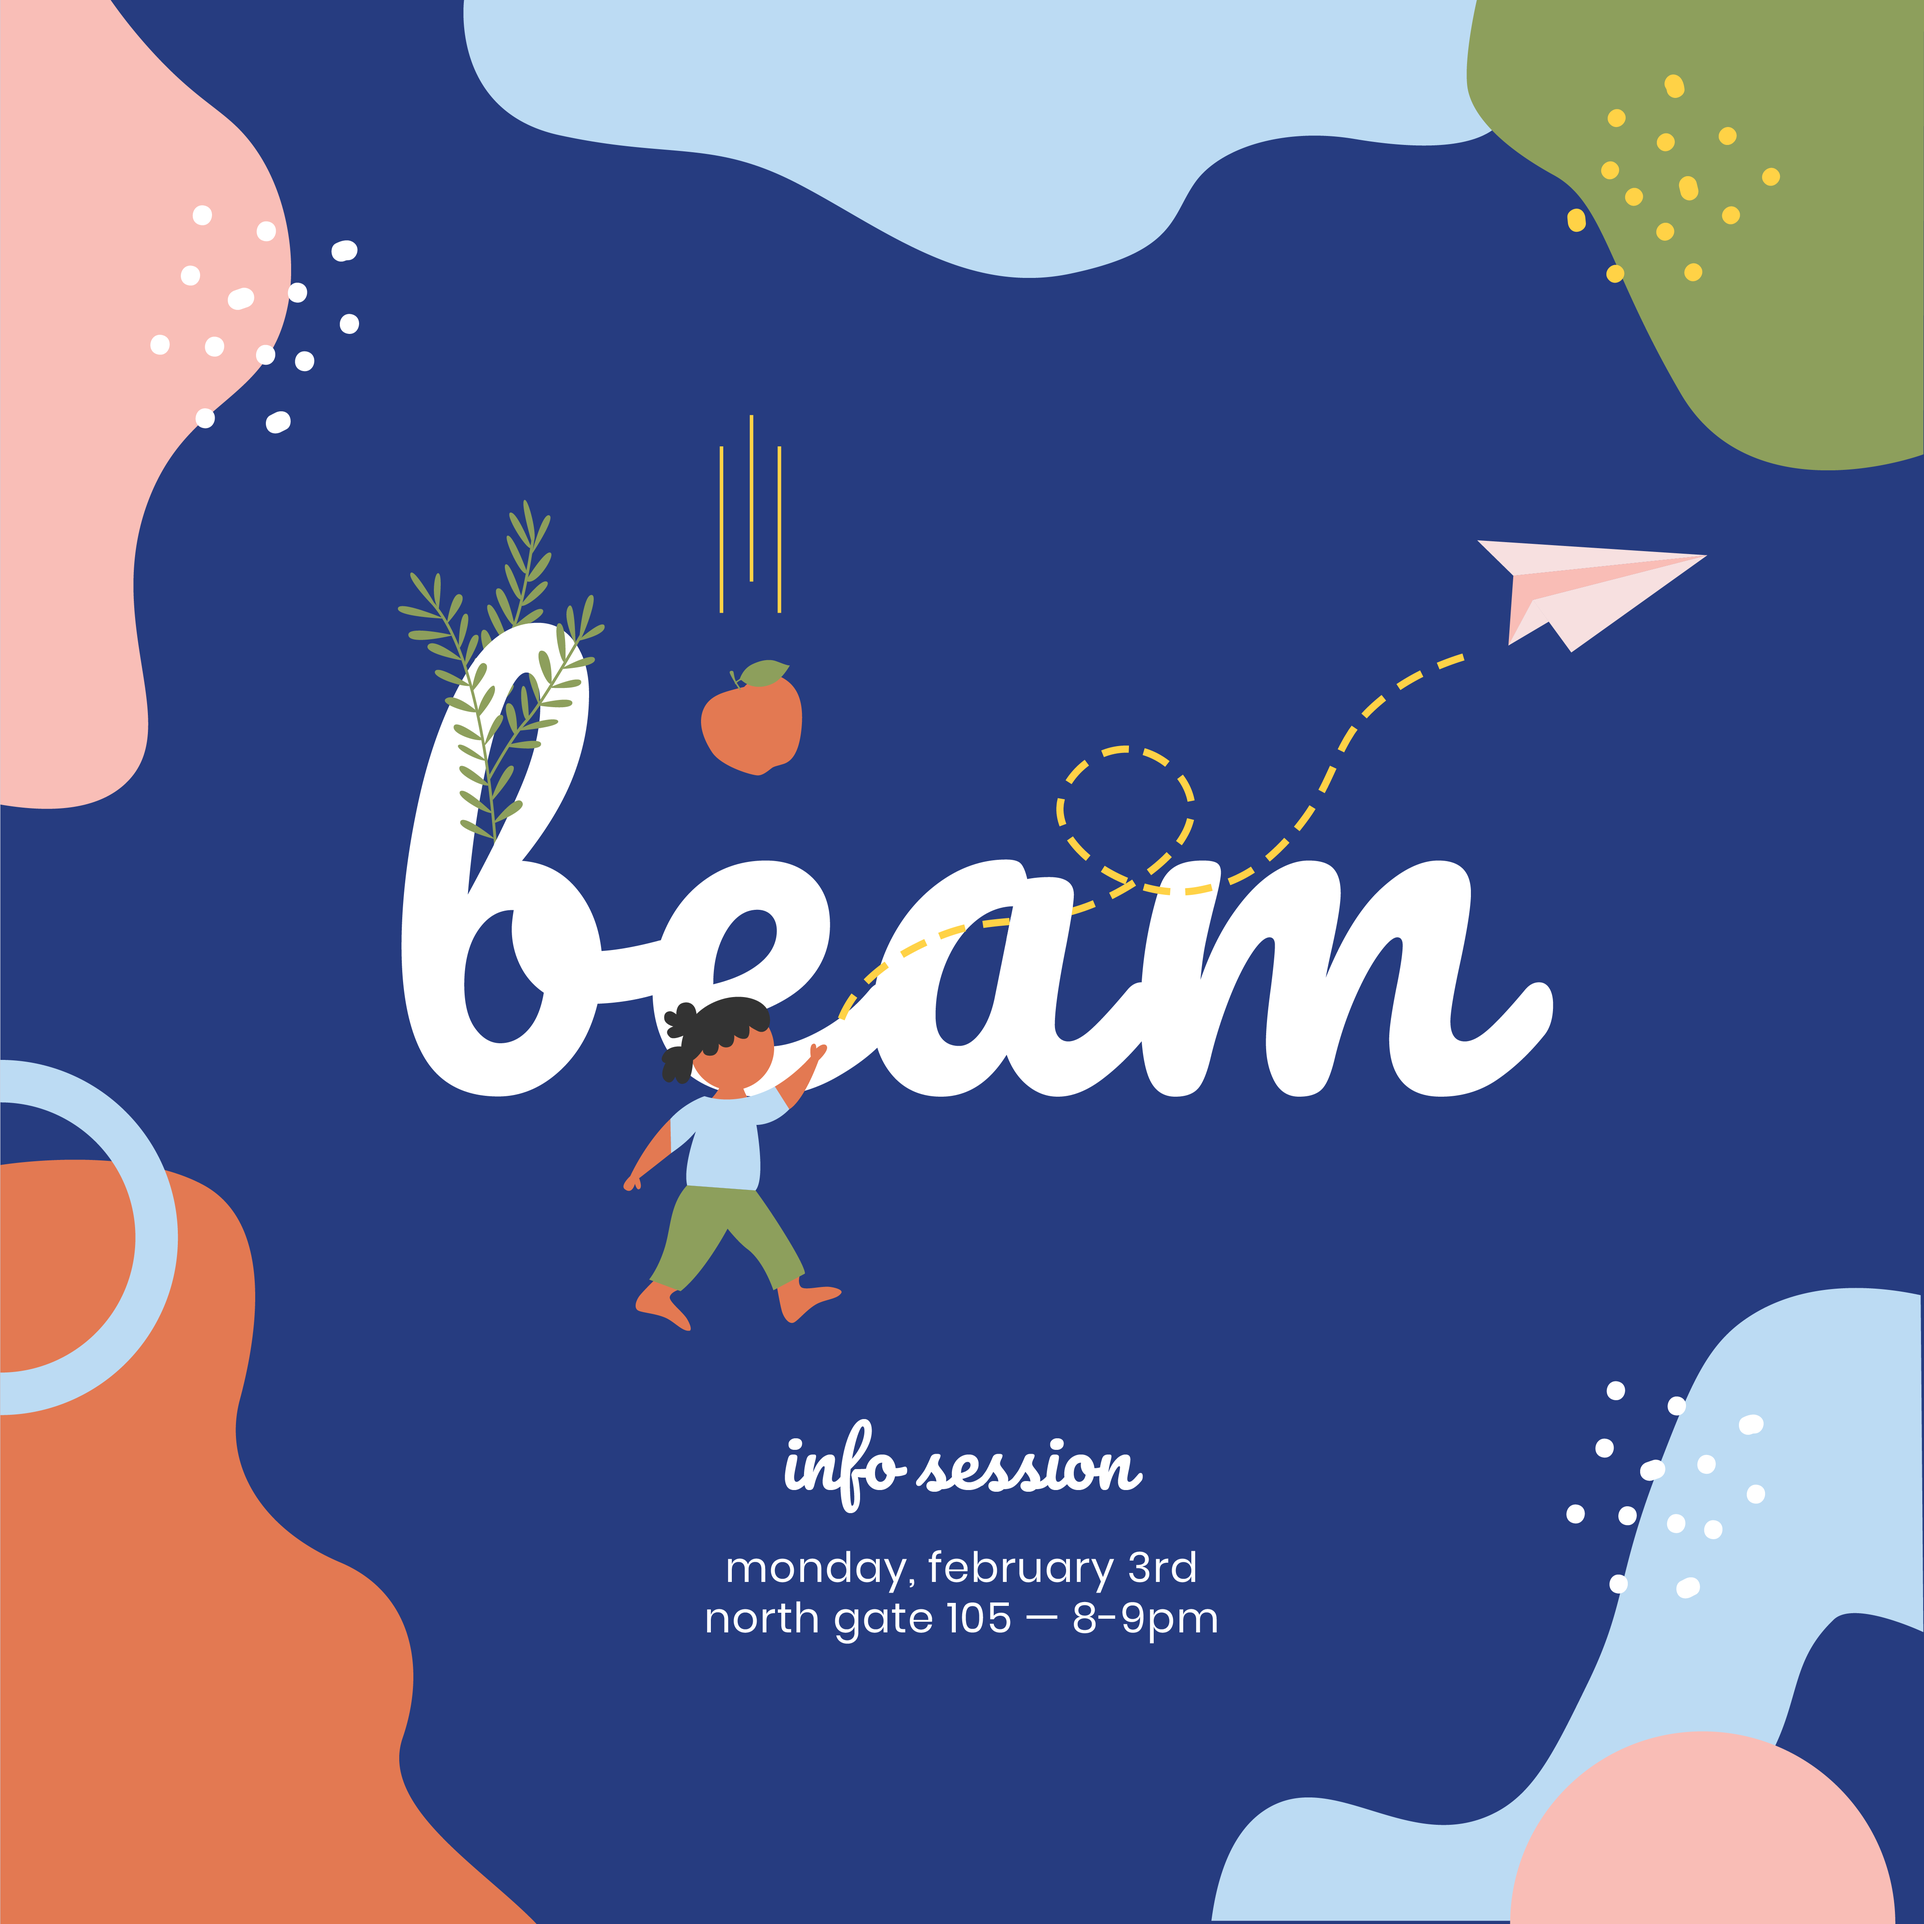
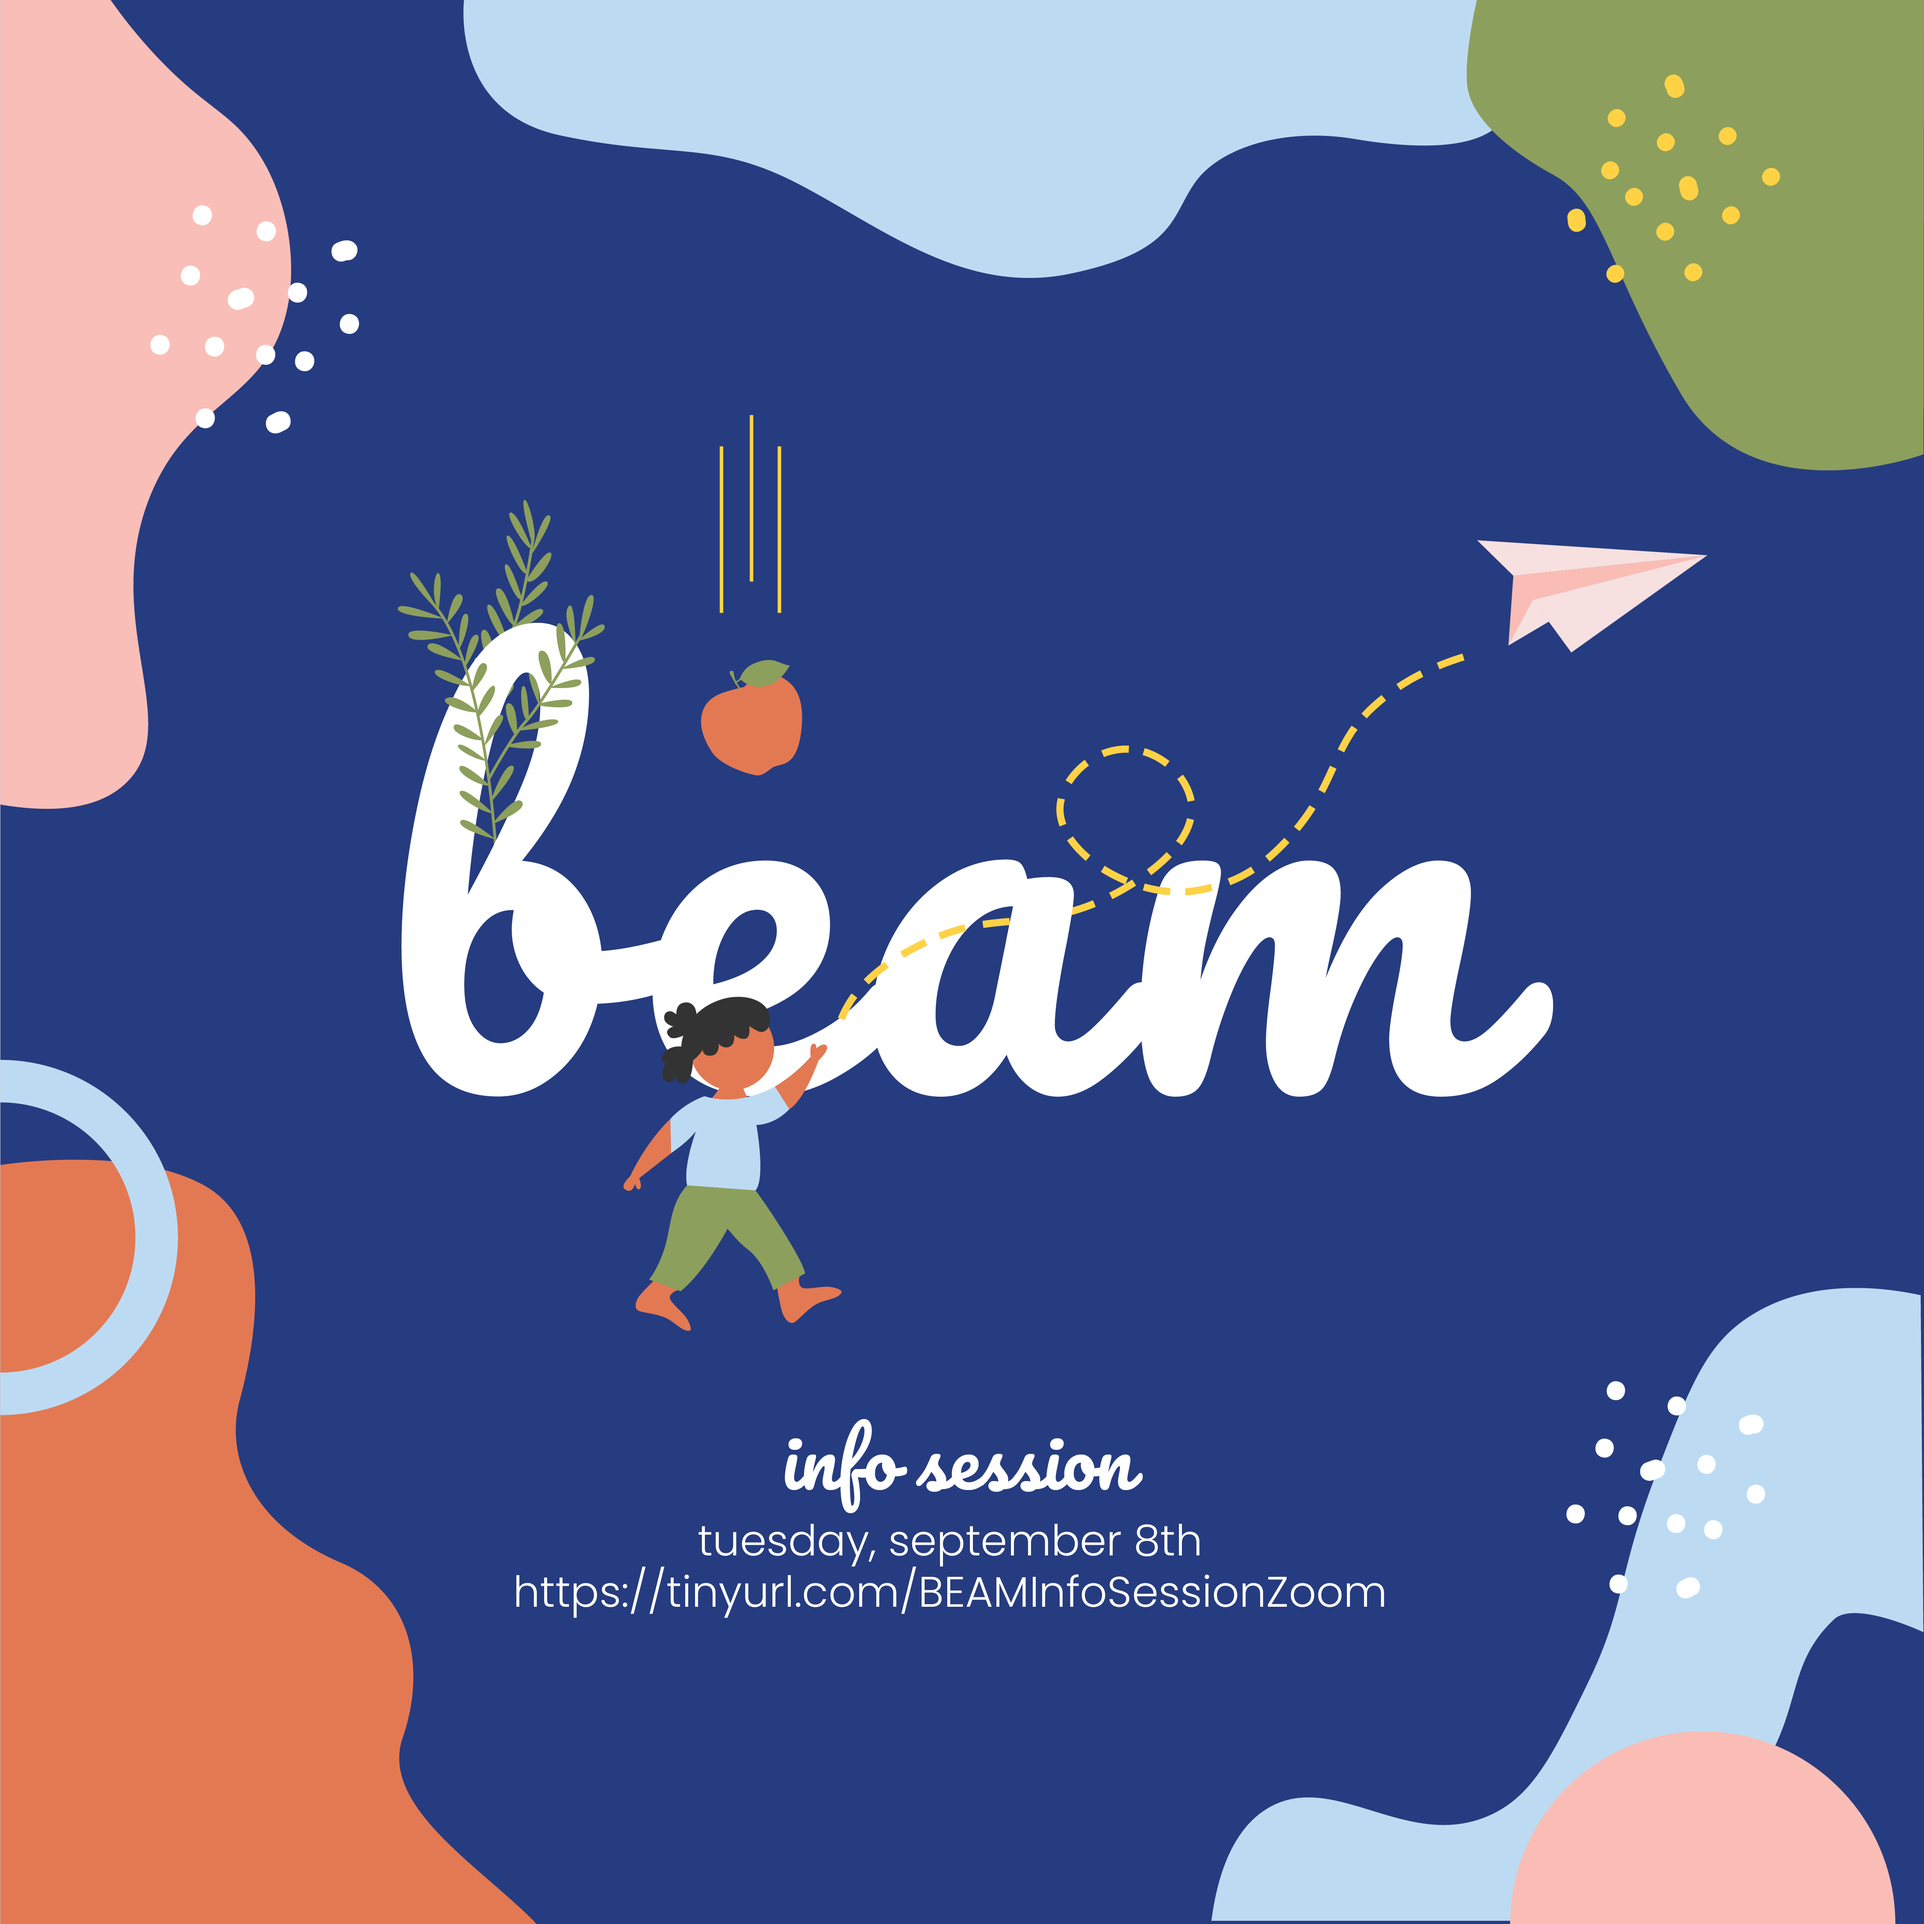
adding infosession image + some info on the join page

Changed region(s): [[0.2799, 0.7778, 0.7154, 0.8711]]

diff --git a/join.html b/join.html
@@ -18,9 +18,9 @@ description:
     <!-- <p><strong>Spring 2020 applications are now closed</strong> but feel free to add 
       your email below or follow us on <a target=_blank
         href="https://www.facebook.com/beam.teach/">Facebook</a> to receive information about our Fall 2020 infosession/application.</p> -->
-        <p>For interested <strong>Fall 2020 mentors</strong>, attend our virtual info-session on <strong>September 8th</strong> for application information! 
+        <p>For interested <strong>Fall 2020 mentors</strong>, stop by during Calapalooza on <strong> September 2nd from 4 PM - 6 PM PST</strong>, as well as our virtual info-session on <strong>September 8th from 8 PM - 9 PM PST</strong> for application information! 
           More details are available on our <a target=_blank
-            href="https://www.facebook.com/beam.teach/">Facebook</a> page. Follow us or add your email below to stay updated!</p>
+            href="https://www.facebook.com/beam.teach/events/">Facebook</a> page. Follow us or add your email below to stay updated!</p>
 
     <form action="http://formspree.io/beam.teach@gmail.com" method="post" class="contact-form"
       style="display:flex; flex-wrap:wrap;">
